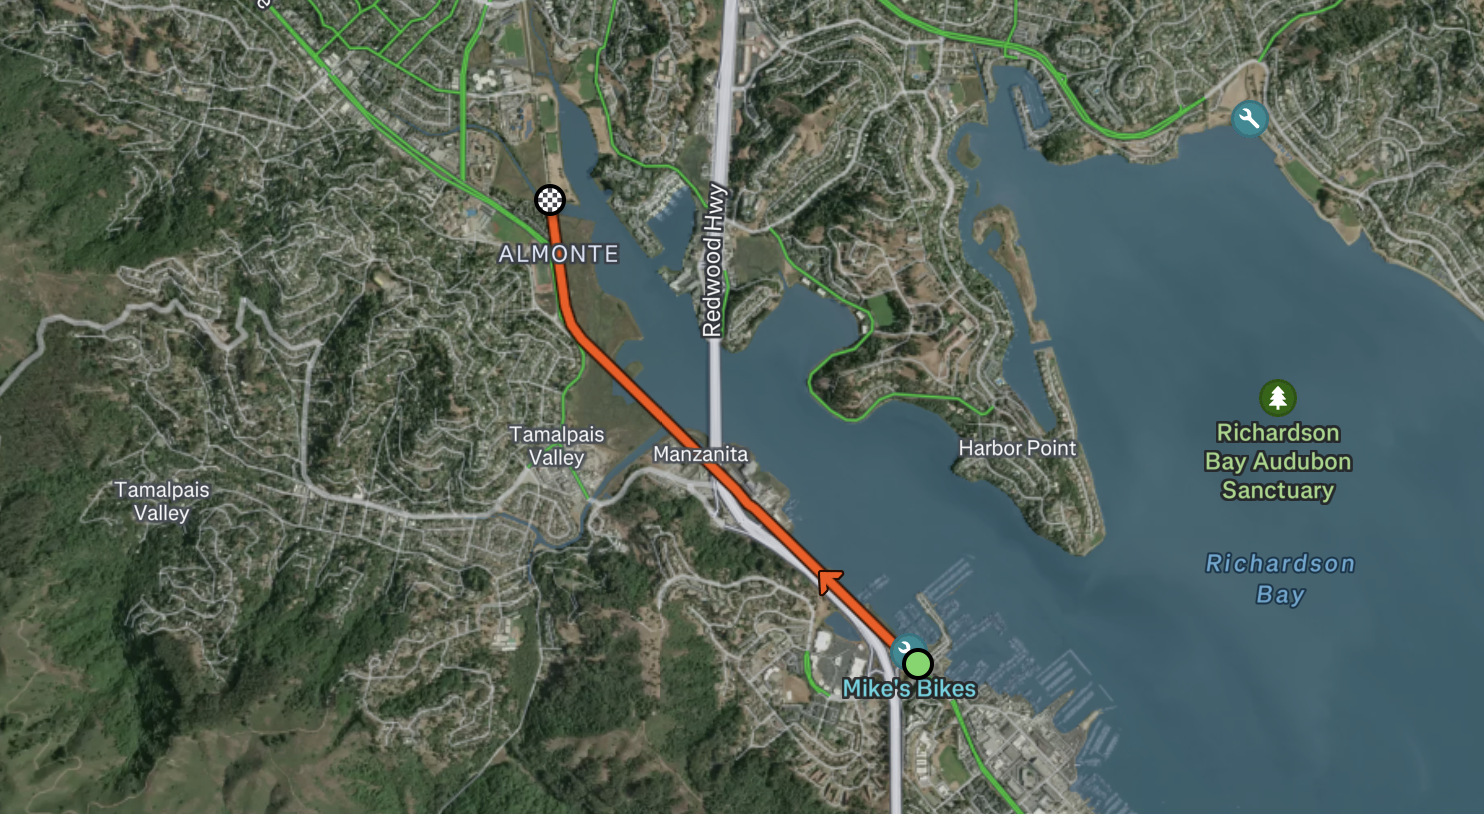
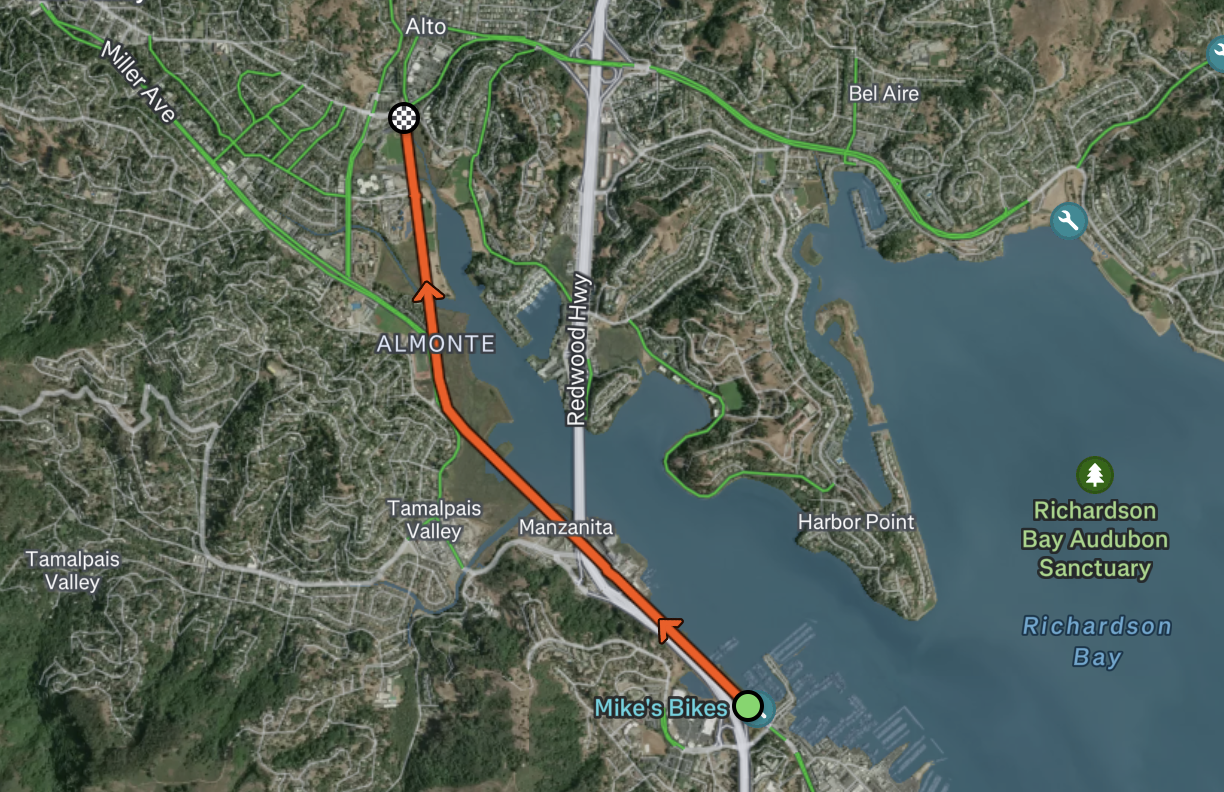
Update html content and assets (#2)
Original bike path map didn't extend fully.

Adds a banner image at the top of the home page.

Fixes various typos in content.

diff --git a/templates/index.html b/templates/index.html
@@ -44,18 +44,26 @@
         <p>To know when you should avoid and plan a different route.</p>
         <p></p>
       </hgroup>
+      <figure>
+          <img
+            src="assets/img/bike-path.jpg"
+            alt="Photo of the bike path."
+          >
+      </figure>
+      <p> </p>
     </header>
     <!-- ./ Header -->
 
     <!-- Main -->
     <main class="container">
       <!-- Preview -->
+
       <section id="predictions">
         <h2>Upcoming Predicted Floods</h2>
         <p>
-          Below are the predicted times of high tides that could cause flooding on the bike path. These are only
+          Below are the predicted times of high tides that could cause the bike path to flood. These are only
           tidal predictions and do not account for weather conditions such as wind, rain or storm surges that may
-          also result in flooding at other high tide times.
+          also result in flooding even if the predicted tide level is below the height of the bike path.
         </p>
      <!-- Tables -->
       <section id="tables">
@@ -89,9 +97,9 @@
      <section id="signup">
         <h2>Sign Up for Flood Notifications</h2>
         <p>
-          If you want to receive email notifications and stay informed about potential events on the bike path, you can sign up
-          below. Emails will be a weekly reminder if there are upcoming floods predicted in the next {{ forecast_days }} days, and 
-          no emails will be sent if there are no floods predicted. You can unsubscribe at any time.
+          If you want to receive email notifications and stay informed about potential flooding events on the bike path, you can sign up
+          below. Emails will be a weekly reminder if there are upcoming floods predicted in the next {{ forecast_days }} days. 
+          No emails will be sent if there are no floods predicted.
         </p>    
         <form>
           <div class="grid">
@@ -108,6 +116,9 @@
             </button>
           </div>
         </form>
+        <p>
+        You can unsubscribe at any time with the unsubscribe link that is always included in the emails.
+        </p>
       </section>
       <!-- ./ Sign Up -->
 
@@ -123,6 +134,7 @@
           <img
             src="assets/img/bike-path-map.png"
             alt="Map of the bike path section prone to flooding"
+            width="800"
           >
         </figure>
 
@@ -130,7 +142,7 @@
         <p>
           Tidal predictions are sourced from the
           <a href="https://tidesandcurrents.noaa.gov/" target="_blank">NOAA Tides and Currents</a> service using
-          their public API for the closest station to the bike, the Sausalito Coe Dock (Station ID: <a href="https://tidesandcurrents.noaa.gov/stationhome.html?id=9414819" target="_blank">9414819</a>).
+          their public API for the closest station to the bike path, the Sausalito Corps of Engineers Dock (Station ID: <a href="https://tidesandcurrents.noaa.gov/stationhome.html?id=9414819" target="_blank">9414819</a>).
         </p>
         <p>
             The flood threshold of {{ flood_threshold }} feet is based on observations and reports that I found from

diff --git a/templates/notification_email.html b/templates/notification_email.html
@@ -8,7 +8,7 @@
         
         <div style="padding: 30px; background-color: #f0f4f8; border-bottom: 1px solid #e1e6eb;">
             <h1 style="color: #1a3a5a; margin: 0 0 15px 0; font-size: 24px; display: flex; align-items: center;">
-                🌊 Upcoming Flood Notification
+                Upcoming Bike Path Floods
             </h1>
             <p style="margin: 0 0 10px 0; color: #3b4e63; font-weight: 600;">Dear Subscriber,</p>
             <p style="margin: 0; color: #4a5e73; line-height: 1.5;">There is a high likelihood of tidal flooding for the Mill Valley-Sausalito bike path in the next 30 days based on the following predicted high tide times:</p>
